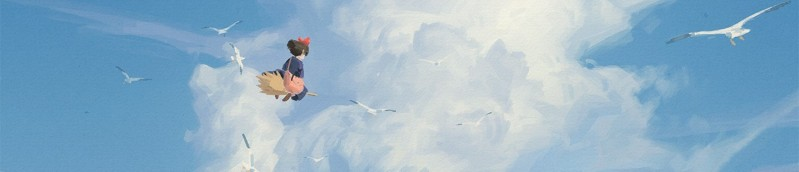
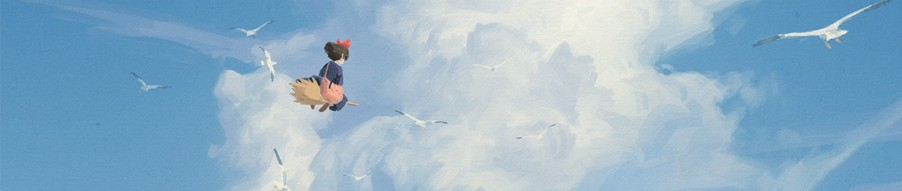
Update element positioning and Change header font with mathrm

diff --git a/README.md b/README.md
@@ -1,8 +1,8 @@
 <!-- I don't like GitHub markdown very much -->
 
-### Welcome to my profile page &ensp;&ensp; <img align="right" alt="spinning star" src="media/Star.png" height=30/>
+### $\mathrm{Welcome\ to\ my\ profile\ page}$ &nbsp; <sub><img alt="spinning star" src="media/Star.png" width=25></sub>
 
-<p align="center"><img alt="Kiki flying on a broom" src="media/kiki.jpeg"/></p>
+<img align="center" alt="Kiki flying on a broom" src="media/kiki.jpeg"/>
 
 <p align="right">
 Credit: <a href="https://x.com/tyc001x/status/1815361315348812080">@tyc001x</a>
@@ -17,9 +17,7 @@ I'm a computer engineer based in Nigeria that loves video games, web development
 <a href="https://yoolakbop.tumblr.com/?source=share"><img alt="Tumblr" src="https://img.shields.io/badge/Tumblr-1A2735?logo=tumblr&logoColor=white&style=flat"/></a>
 </p>
 
-<br>
-
-### Languages and tools
+### $\mathrm{Languages\ and\ tools}$
 <p>
 <img alt="HTML" src="https://img.shields.io/badge/HTML-E34F26?logo=html5&logoColor=white&style=flat"/>
 <img alt="CSS" src="https://img.shields.io/badge/CSS-663399?logo=CSS&logoColor=white&style=flat"/>
@@ -27,16 +25,17 @@ I'm a computer engineer based in Nigeria that loves video games, web development
 <img alt="PostgreSQL" src="https://img.shields.io/badge/PostgreSQL-4169E1?logo=postgresql&logoColor=white&style=flat"/>
 <img alt="MySQL" src="https://img.shields.io/badge/MySQL-4479A1?logo=mysql&logoColor=white&style=flat"/>
 <img alt="Python" src="https://img.shields.io/badge/Python-FFDF76?logo=python&logoColor=black&style=flat"/>
+<img alt="Bash" src="https://img.shields.io/badge/Bash-005571?logo=gnubash&logoColor=white&style=flat"/>
 <img alt="Raspberry Pi" src="https://img.shields.io/badge/Raspberry Pi-A22846?logo=raspberrypi&logoColor=white&style=flat"/>
 <img alt="Linux" src="https://img.shields.io/badge/Linux-86BE43?logo=linux&logoColor=white&style=flat"/>
 <img alt="Docker" src="https://img.shields.io/badge/Docker-2560FF?logo=docker&logoColor=white&style=flat"/>
 <img alt="Git" src="https://img.shields.io/badge/Git-F05032?logo=git&logoColor=white&style=flat"/>
 <img alt="Figma" src="https://img.shields.io/badge/Figma-10A958?logo=figma&logoColor=white&style=flat"/>
+<img alt="Obsidian" src="https://img.shields.io/badge/Obsidian-7C3AED?logo=obsidian&logoColor=white&style=flat"/>
+<img alt="Postman" src="https://img.shields.io/badge/Postman-FF6C37?logo=postman&logoColor=white&style=flat"/>
 </p>
 
-<br>
-
-### A few of my many favourite FOSS projects
+### $\mathrm{Some\ of\ my\ favourite\ FOSS\ projects}$
 - VERT
 - FluentFlyout
 - Cashew
@@ -45,3 +44,12 @@ I'm a computer engineer based in Nigeria that loves video games, web development
 - windhawk
 - Helium
 - ytdlp
+
+<table align="center">
+
+| hi &nbsp;&nbsp;&nbsp;&nbsp;&nbsp;| what | shoo |
+|---|---|---|
+| fuck | wow | man |
+| how | go | mean |
+
+</table>
